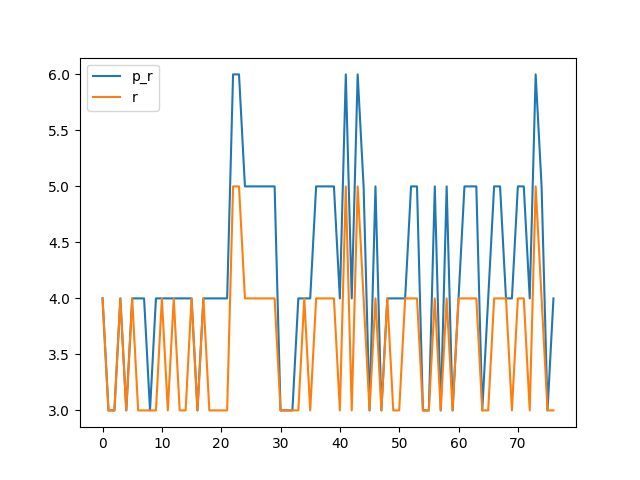
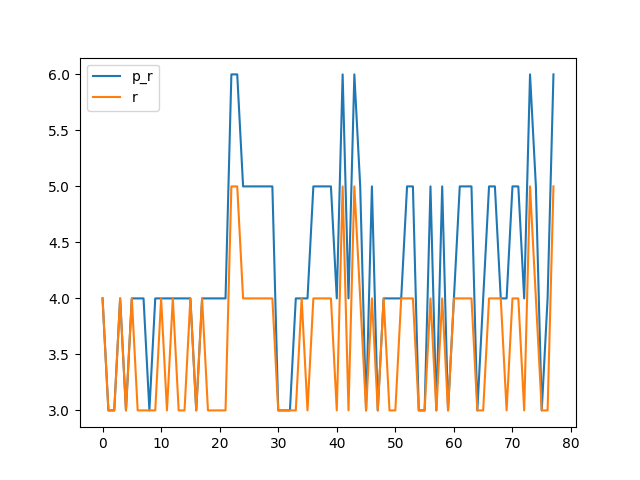
0x004D

diff --git a/benchmark.md b/benchmark.md
@@ -152,16 +152,18 @@ Synthesising 0x004B pexact:224 r=3 exact:224 r=3
 
 Synthesising 0x004C pexact:182 r=4 exact:192 r=3
 
+Synthesising 0x004D pexact:400 r=6 exact:448 r=5
+
 ```mermaid
 xychart-beta
     title "Comparison powertwoexact twoexact"
-    x-axis [0, 1, 2, 3, 4, 5, 6, 7, 8, 9, 10, 11, 12, 13, 14, 15, 16, 17, 18, 19, 20, 21, 22, 23, 24, 25, 26, 27, 28, 29, 30, 31, 32, 33, 34, 35, 36, 37, 38, 39, 40, 41, 42, 43, 44, 45, 46, 47, 48, 49, 50, 51, 52, 53, 54, 55, 56, 57, 58, 59, 60, 61, 62, 63, 64, 65, 66, 67, 68, 69, 70, 71, 72, 73, 74, 75, 76]
+    x-axis [0, 1, 2, 3, 4, 5, 6, 7, 8, 9, 10, 11, 12, 13, 14, 15, 16, 17, 18, 19, 20, 21, 22, 23, 24, 25, 26, 27, 28, 29, 30, 31, 32, 33, 34, 35, 36, 37, 38, 39, 40, 41, 42, 43, 44, 45, 46, 47, 48, 49, 50, 51, 52, 53, 54, 55, 56, 57, 58, 59, 60, 61, 62, 63, 64, 65, 66, 67, 68, 69, 70, 71, 72, 73, 74, 75, 76, 77]
     y-axis "Switching Activity" 0-->472
-    line [96, 152, 152, 182, 152, 182, 208, 182, 152, 208, 182, 182, 182, 182, 182, 182, 152, 182, 208, 182, 208, 182, 406, 400, 336, 310, 310, 304, 310, 304, 224, 216, 152, 208, 182, 182, 336, 310, 310, 304, 208, 406, 182, 400, 310, 224, 304, 216, 182, 182, 182, 182, 310, 304, 224, 216, 310, 224, 304, 216, 280, 326, 326, 238, 152, 208, 336, 310, 182, 182, 310, 304, 208, 406, 310, 224, 182]
-    line [192, 152, 152, 312, 152, 352, 224, 192, 192, 224, 352, 216, 320, 216, 216, 352, 152, 326, 224, 216, 224, 192, 464, 448, 352, 344, 344, 320, 336, 352, 224, 216, 192, 224, 318, 192, 352, 344, 344, 312, 224, 448, 192, 440, 344, 224, 312, 216, 320, 216, 216, 280, 344, 312, 224, 216, 344, 224, 320, 216, 344, 336, 344, 288, 152, 224, 352, 336, 320, 192, 344, 320, 224, 472, 336, 224, 192]
-    line [240.85714285714286, 240.85714285714286, 240.85714285714286, 240.85714285714286, 240.85714285714286, 240.85714285714286, 240.85714285714286, 240.85714285714286, 240.85714285714286, 240.85714285714286, 240.85714285714286, 240.85714285714286, 240.85714285714286, 240.85714285714286, 240.85714285714286, 240.85714285714286, 240.85714285714286, 240.85714285714286, 240.85714285714286, 240.85714285714286, 240.85714285714286, 240.85714285714286, 240.85714285714286, 240.85714285714286, 240.85714285714286, 240.85714285714286, 240.85714285714286, 240.85714285714286, 240.85714285714286, 240.85714285714286, 240.85714285714286, 240.85714285714286, 240.85714285714286, 240.85714285714286, 240.85714285714286, 240.85714285714286, 240.85714285714286, 240.85714285714286, 240.85714285714286, 240.85714285714286, 240.85714285714286, 240.85714285714286, 240.85714285714286, 240.85714285714286, 240.85714285714286, 240.85714285714286, 240.85714285714286, 240.85714285714286, 240.85714285714286, 240.85714285714286, 240.85714285714286, 240.85714285714286, 240.85714285714286, 240.85714285714286, 240.85714285714286, 240.85714285714286, 240.85714285714286, 240.85714285714286, 240.85714285714286, 240.85714285714286, 240.85714285714286, 240.85714285714286, 240.85714285714286, 240.85714285714286, 240.85714285714286, 240.85714285714286, 240.85714285714286, 240.85714285714286, 240.85714285714286, 240.85714285714286, 240.85714285714286, 240.85714285714286, 240.85714285714286, 240.85714285714286, 240.85714285714286, 240.85714285714286, 240.85714285714286]
-    line [278.7012987012987, 278.7012987012987, 278.7012987012987, 278.7012987012987, 278.7012987012987, 278.7012987012987, 278.7012987012987, 278.7012987012987, 278.7012987012987, 278.7012987012987, 278.7012987012987, 278.7012987012987, 278.7012987012987, 278.7012987012987, 278.7012987012987, 278.7012987012987, 278.7012987012987, 278.7012987012987, 278.7012987012987, 278.7012987012987, 278.7012987012987, 278.7012987012987, 278.7012987012987, 278.7012987012987, 278.7012987012987, 278.7012987012987, 278.7012987012987, 278.7012987012987, 278.7012987012987, 278.7012987012987, 278.7012987012987, 278.7012987012987, 278.7012987012987, 278.7012987012987, 278.7012987012987, 278.7012987012987, 278.7012987012987, 278.7012987012987, 278.7012987012987, 278.7012987012987, 278.7012987012987, 278.7012987012987, 278.7012987012987, 278.7012987012987, 278.7012987012987, 278.7012987012987, 278.7012987012987, 278.7012987012987, 278.7012987012987, 278.7012987012987, 278.7012987012987, 278.7012987012987, 278.7012987012987, 278.7012987012987, 278.7012987012987, 278.7012987012987, 278.7012987012987, 278.7012987012987, 278.7012987012987, 278.7012987012987, 278.7012987012987, 278.7012987012987, 278.7012987012987, 278.7012987012987, 278.7012987012987, 278.7012987012987, 278.7012987012987, 278.7012987012987, 278.7012987012987, 278.7012987012987, 278.7012987012987, 278.7012987012987, 278.7012987012987, 278.7012987012987, 278.7012987012987, 278.7012987012987, 278.7012987012987]
-    bar [80, 60, 60, 80, 60, 80, 80, 80, 60, 80, 80, 80, 80, 80, 80, 80, 60, 80, 80, 80, 80, 80, 120, 120, 100, 100, 100, 100, 100, 100, 60, 60, 60, 80, 80, 80, 100, 100, 100, 100, 80, 120, 80, 120, 100, 60, 100, 60, 80, 80, 80, 80, 100, 100, 60, 60, 100, 60, 100, 60, 80, 100, 100, 100, 60, 80, 100, 100, 80, 80, 100, 100, 80, 120, 100, 60, 80]
-    bar [80, 60, 60, 80, 60, 80, 60, 60, 60, 60, 80, 60, 80, 60, 60, 80, 60, 80, 60, 60, 60, 60, 100, 100, 80, 80, 80, 80, 80, 80, 60, 60, 60, 60, 80, 60, 80, 80, 80, 80, 60, 100, 60, 100, 80, 60, 80, 60, 80, 60, 60, 80, 80, 80, 60, 60, 80, 60, 80, 60, 80, 80, 80, 80, 60, 60, 80, 80, 80, 60, 80, 80, 60, 100, 80, 60, 60]
+    line [96, 152, 152, 182, 152, 182, 208, 182, 152, 208, 182, 182, 182, 182, 182, 182, 152, 182, 208, 182, 208, 182, 406, 400, 336, 310, 310, 304, 310, 304, 224, 216, 152, 208, 182, 182, 336, 310, 310, 304, 208, 406, 182, 400, 310, 224, 304, 216, 182, 182, 182, 182, 310, 304, 224, 216, 310, 224, 304, 216, 280, 326, 326, 238, 152, 208, 336, 310, 182, 182, 310, 304, 208, 406, 310, 224, 182, 400]
+    line [192, 152, 152, 312, 152, 352, 224, 192, 192, 224, 352, 216, 320, 216, 216, 352, 152, 326, 224, 216, 224, 192, 464, 448, 352, 344, 344, 320, 336, 352, 224, 216, 192, 224, 318, 192, 352, 344, 344, 312, 224, 448, 192, 440, 344, 224, 312, 216, 320, 216, 216, 280, 344, 312, 224, 216, 344, 224, 320, 216, 344, 336, 344, 288, 152, 224, 352, 336, 320, 192, 344, 320, 224, 472, 336, 224, 192, 448]
+    line [242.89743589743588, 242.89743589743588, 242.89743589743588, 242.89743589743588, 242.89743589743588, 242.89743589743588, 242.89743589743588, 242.89743589743588, 242.89743589743588, 242.89743589743588, 242.89743589743588, 242.89743589743588, 242.89743589743588, 242.89743589743588, 242.89743589743588, 242.89743589743588, 242.89743589743588, 242.89743589743588, 242.89743589743588, 242.89743589743588, 242.89743589743588, 242.89743589743588, 242.89743589743588, 242.89743589743588, 242.89743589743588, 242.89743589743588, 242.89743589743588, 242.89743589743588, 242.89743589743588, 242.89743589743588, 242.89743589743588, 242.89743589743588, 242.89743589743588, 242.89743589743588, 242.89743589743588, 242.89743589743588, 242.89743589743588, 242.89743589743588, 242.89743589743588, 242.89743589743588, 242.89743589743588, 242.89743589743588, 242.89743589743588, 242.89743589743588, 242.89743589743588, 242.89743589743588, 242.89743589743588, 242.89743589743588, 242.89743589743588, 242.89743589743588, 242.89743589743588, 242.89743589743588, 242.89743589743588, 242.89743589743588, 242.89743589743588, 242.89743589743588, 242.89743589743588, 242.89743589743588, 242.89743589743588, 242.89743589743588, 242.89743589743588, 242.89743589743588, 242.89743589743588, 242.89743589743588, 242.89743589743588, 242.89743589743588, 242.89743589743588, 242.89743589743588, 242.89743589743588, 242.89743589743588, 242.89743589743588, 242.89743589743588, 242.89743589743588, 242.89743589743588, 242.89743589743588, 242.89743589743588, 242.89743589743588, 242.89743589743588]
+    line [280.87179487179486, 280.87179487179486, 280.87179487179486, 280.87179487179486, 280.87179487179486, 280.87179487179486, 280.87179487179486, 280.87179487179486, 280.87179487179486, 280.87179487179486, 280.87179487179486, 280.87179487179486, 280.87179487179486, 280.87179487179486, 280.87179487179486, 280.87179487179486, 280.87179487179486, 280.87179487179486, 280.87179487179486, 280.87179487179486, 280.87179487179486, 280.87179487179486, 280.87179487179486, 280.87179487179486, 280.87179487179486, 280.87179487179486, 280.87179487179486, 280.87179487179486, 280.87179487179486, 280.87179487179486, 280.87179487179486, 280.87179487179486, 280.87179487179486, 280.87179487179486, 280.87179487179486, 280.87179487179486, 280.87179487179486, 280.87179487179486, 280.87179487179486, 280.87179487179486, 280.87179487179486, 280.87179487179486, 280.87179487179486, 280.87179487179486, 280.87179487179486, 280.87179487179486, 280.87179487179486, 280.87179487179486, 280.87179487179486, 280.87179487179486, 280.87179487179486, 280.87179487179486, 280.87179487179486, 280.87179487179486, 280.87179487179486, 280.87179487179486, 280.87179487179486, 280.87179487179486, 280.87179487179486, 280.87179487179486, 280.87179487179486, 280.87179487179486, 280.87179487179486, 280.87179487179486, 280.87179487179486, 280.87179487179486, 280.87179487179486, 280.87179487179486, 280.87179487179486, 280.87179487179486, 280.87179487179486, 280.87179487179486, 280.87179487179486, 280.87179487179486, 280.87179487179486, 280.87179487179486, 280.87179487179486, 280.87179487179486]
+    bar [80, 60, 60, 80, 60, 80, 80, 80, 60, 80, 80, 80, 80, 80, 80, 80, 60, 80, 80, 80, 80, 80, 120, 120, 100, 100, 100, 100, 100, 100, 60, 60, 60, 80, 80, 80, 100, 100, 100, 100, 80, 120, 80, 120, 100, 60, 100, 60, 80, 80, 80, 80, 100, 100, 60, 60, 100, 60, 100, 60, 80, 100, 100, 100, 60, 80, 100, 100, 80, 80, 100, 100, 80, 120, 100, 60, 80, 120]
+    bar [80, 60, 60, 80, 60, 80, 60, 60, 60, 60, 80, 60, 80, 60, 60, 80, 60, 80, 60, 60, 60, 60, 100, 100, 80, 80, 80, 80, 80, 80, 60, 60, 60, 60, 80, 60, 80, 80, 80, 80, 60, 100, 60, 100, 80, 60, 80, 60, 80, 60, 60, 80, 80, 80, 60, 60, 80, 60, 80, 60, 80, 80, 80, 80, 60, 60, 80, 80, 80, 60, 80, 80, 60, 100, 80, 60, 60, 100]
 ```
 
